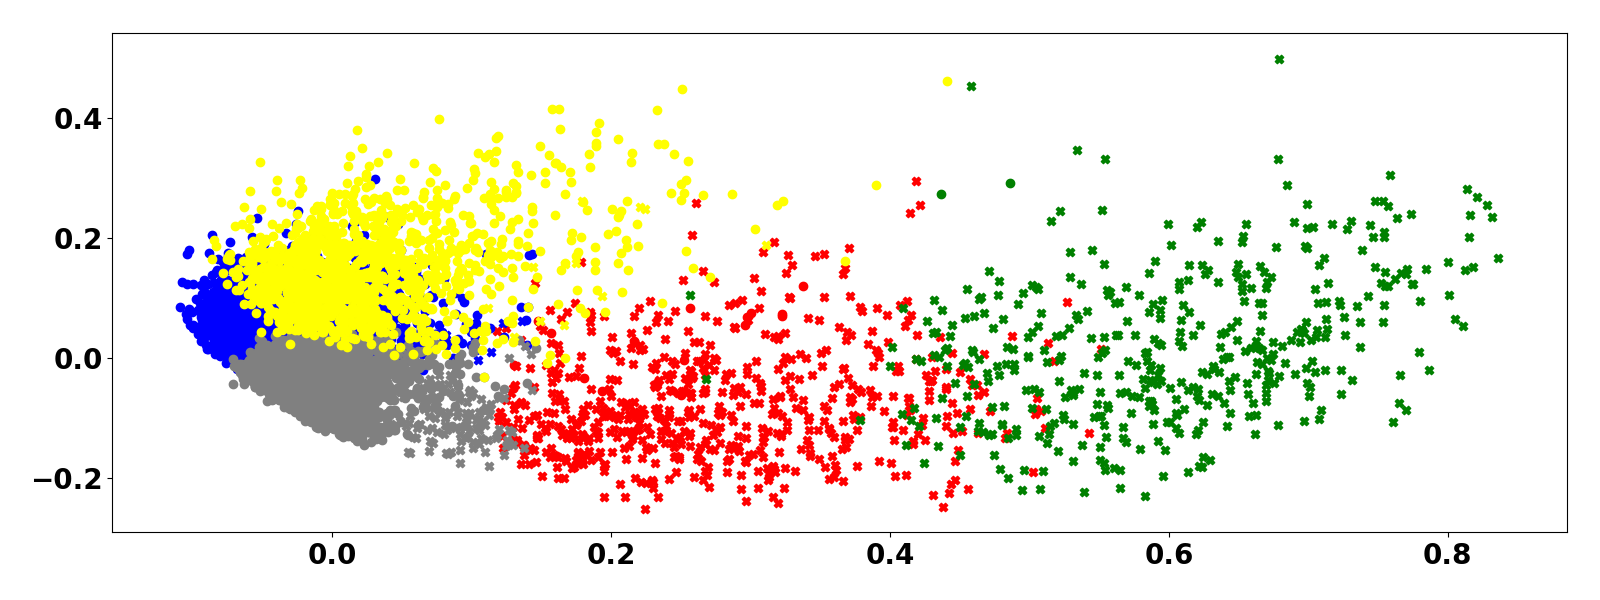
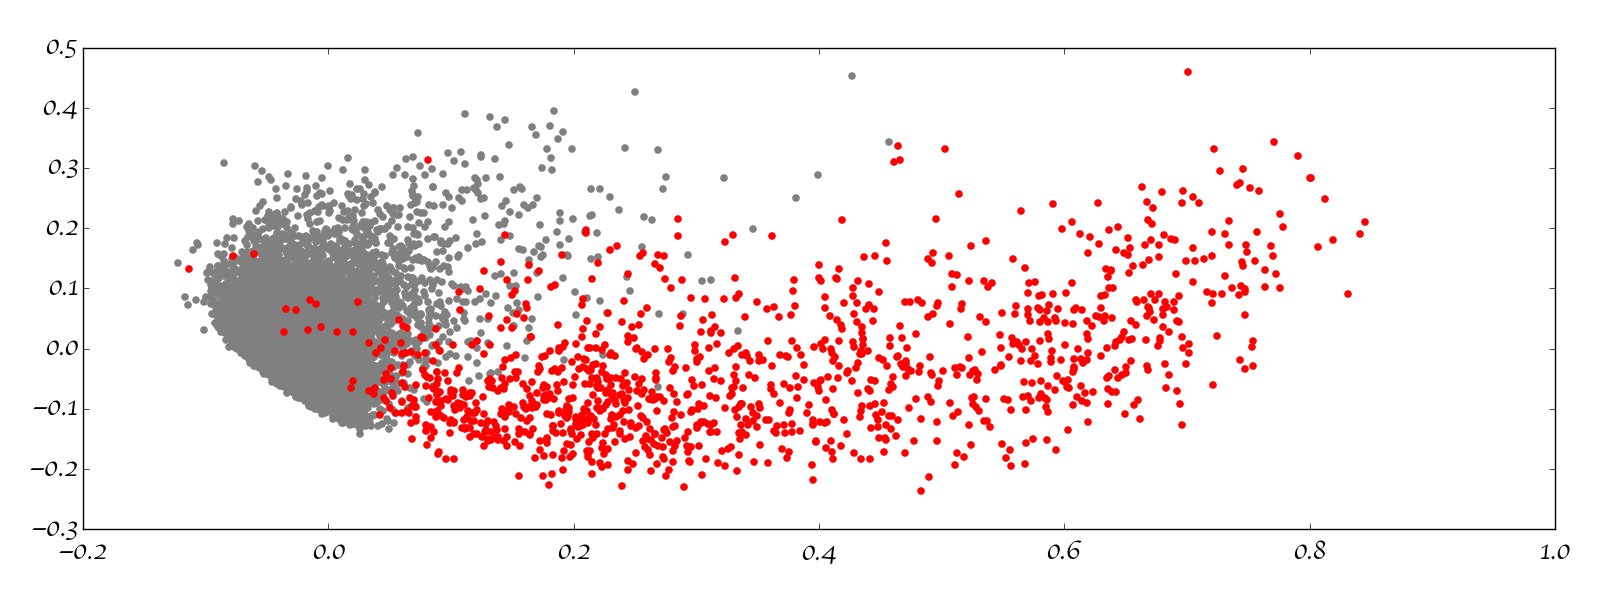
figures

diff --git a/src/job_resume.py b/src/job_resume.py
@@ -8,6 +8,7 @@ from scipy.sparse import csr_matrix
 from sklearn.decomposition import PCA
 from sklearn.cluster import KMeans
 import matplotlib.pyplot as plt
+from mpl_toolkits.mplot3d import Axes3D
 from demos import cmd
 
 import re
@@ -103,8 +104,8 @@ class JobResume():
         order = np.argsort(probs)[::-1][:num]
         return order, probs[order]
 
-    def dimensionality_reduction(self):
-        pca = PCA(n_components=2)
+    def dimensionality_reduction(self,n=3):
+        pca = PCA(n_components=n)
         self.reduced_mat = pca.fit_transform(self.csr_mat.toarray())
 
     def clustering(self, n=5):
@@ -124,26 +125,29 @@ class JobResume():
                  'figure.autolayout': True, 'figure.figsize': (16, 6)}
         plt.rcParams.update(paras)
 
-        plt.figure()
+        fig = plt.figure()
+        ax = fig.add_subplot(111, projection='3d')
         resumes = {}
         jobs = {}
         for i,row in enumerate(self.reduced_mat):
             cat = self.clusters[i]
             if i < self.num_resume:
                 if cat not in resumes:
-                    resumes[cat] = {"x":[], "y":[]}
+                    resumes[cat] = {"x":[], "y":[], "z":[]}
                 resumes[cat]["x"].append(row[0])
                 resumes[cat]["y"].append(row[1])
+                resumes[cat]["z"].append(row[2])
             else:
                 if cat not in jobs:
-                    jobs[cat] = {"x": [], "y": []}
+                    jobs[cat] = {"x": [], "y": [], "z":[]}
                 jobs[cat]["x"].append(row[0])
                 jobs[cat]["y"].append(row[1])
-        colors = ["red","blue","green","gray", "yellow"]
+                jobs[cat]["z"].append(row[2])
+        colors = ["red","blue","green","gray", "orange"]
         for cat in set(self.clusters):
-            plt.scatter(jobs[cat]["x"],jobs[cat]["y"],marker ="o",color=colors[cat])
-            plt.scatter(resumes[cat]["x"],resumes[cat]["y"],marker ="X",color=colors[cat])
-        plt.savefig("../figure/visualization.png")
+            ax.scatter(jobs[cat]["x"],jobs[cat]["y"],jobs[cat]["z"],marker ="o",color=colors[cat])
+            ax.scatter(resumes[cat]["x"],resumes[cat]["y"],resumes[cat]["z"], marker ="^",color=colors[cat])
+        plt.savefig("../figure/visualization3D.png")
 
 
 def test():
